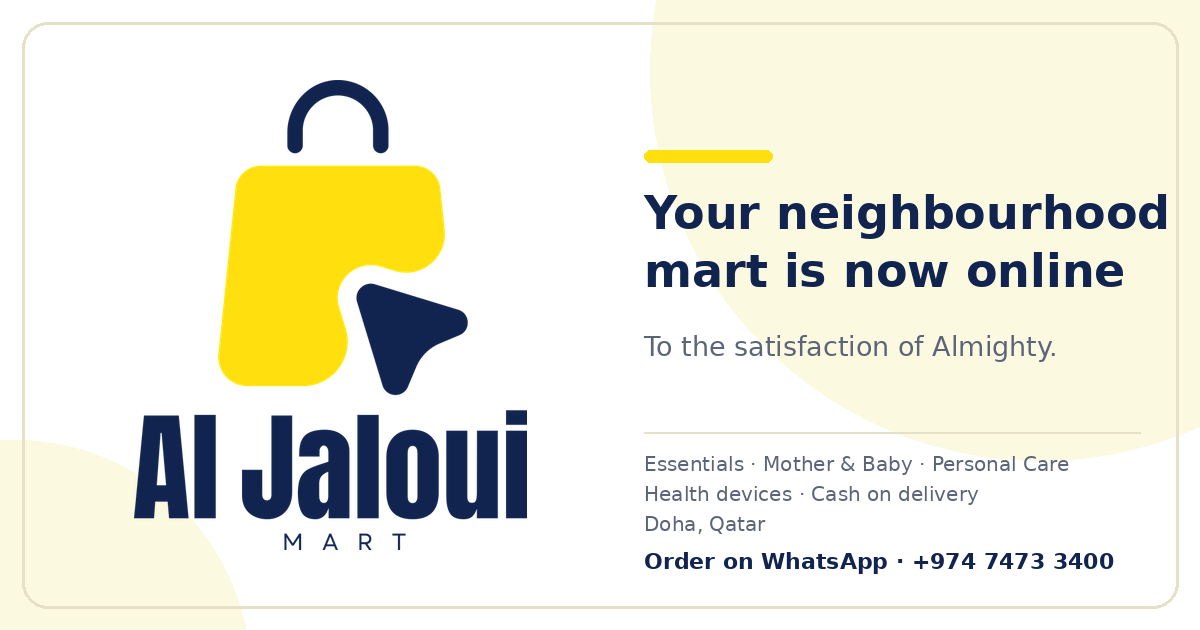
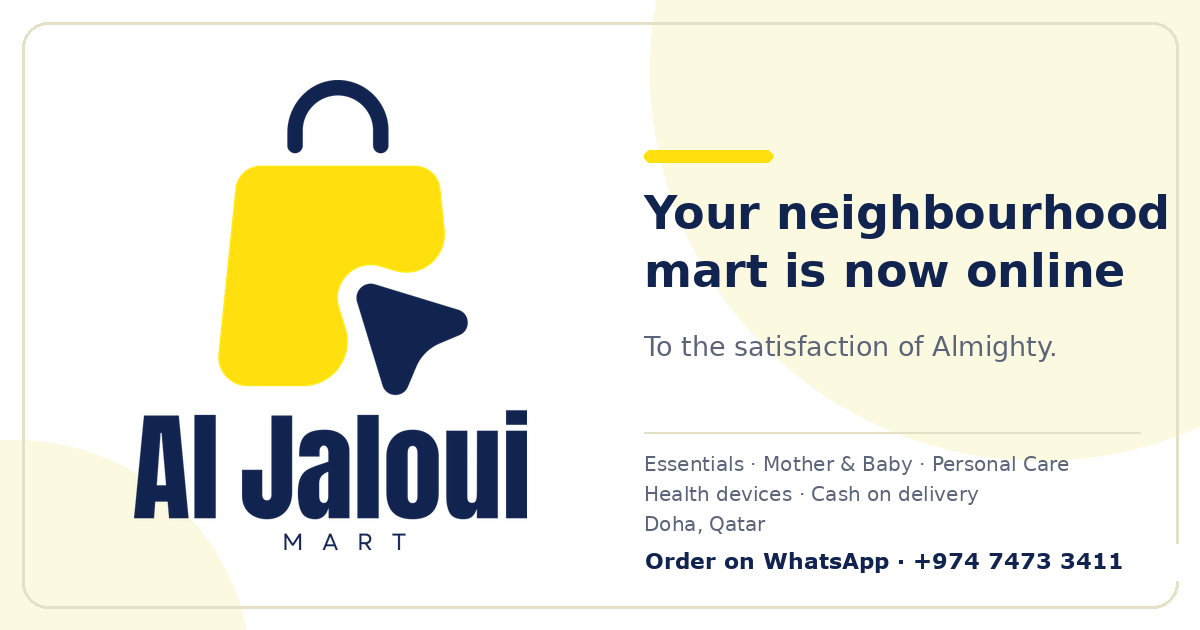
Change the shop phone number to +974 7473 3422
The old +974 7473 3400 is gone from the whole site: the footer, the
Call to Order button, the structured data Google reads, and the seven
product pages.

The share image's "Order on WhatsApp" line was still showing the old
number too. It now reads +974 7473 3411, the number that is actually
on WhatsApp, rather than the phone number. make_og.py reads that from
index.html now so the two cannot drift apart again.

Changed region(s): [[0.5242, 0.8746, 0.9558, 0.9048]]

diff --git a/index.html b/index.html
@@ -63,7 +63,7 @@
   "image": "https://aljaloui.com/og-image.png",
   "logo": "https://aljaloui.com/assets/brand/logo-stacked.png",
   "description": "Al Jaloui Mart is a neighbourhood store in Doha, Qatar, delivering Quran speakers, bukhoor burners, health and wellness products, car care tools, toys and kids' art sets.",
-  "telephone": "+97474733400",
+  "telephone": "+97474733422",
   "email": "aljalouimedia@gmail.com",
   "priceRange": "QAR",
   "currenciesAccepted": "QAR",
@@ -1759,9 +1759,9 @@
               rel="noopener"><svg aria-hidden="true">
                 <use href="#icon-pin" />
               </svg><span data-i18n="footer_addr">Doha, Qatar</span></a>
-            <a class="foot-line" data-contact="phone" href="tel:+97474733400"><svg aria-hidden="true">
+            <a class="foot-line" data-contact="phone" href="tel:+97474733422"><svg aria-hidden="true">
                 <use href="#icon-phone" />
-              </svg><bdi dir="ltr" data-contact-text="phone">+974 7473 3400</bdi></a>
+              </svg><bdi dir="ltr" data-contact-text="phone">+974 7473 3422</bdi></a>
             <a class="foot-line" data-contact="phone2" href="tel:+97474733411"><svg aria-hidden="true">
                 <use href="#icon-phone" />
               </svg><bdi dir="ltr" data-contact-text="phone2">+974 7473 3411</bdi></a>
@@ -1844,7 +1844,7 @@
     ];
     /* ============ EDIT YOUR CONTACT INFO HERE ============ */
     const CONTACT = {
-      phone: '+97474733400',        // first phone number (also used for 'Call to Order')
+      phone: '+97474733422',        // first phone number (also used for 'Call to Order')
       phone2: '+97474733411',       // second phone number
       whatsapp: '97474733411',      // WhatsApp number, digits only, with country code
       email: 'aljalouimedia@gmail.com',

diff --git a/p/concept-racing-gear-car.html b/p/concept-racing-gear-car.html
@@ -187,7 +187,7 @@ opacity:0;pointer-events:none;transition:opacity .22s,transform .22s;z-index:40}
     <div class="wrap">
       <span>Al Jaloui Mart <span aria-hidden="true">·</span> <span data-t="doha">Doha, Qatar</span></span>
       <a href="https://wa.me/97474733411" target="_blank" rel="noopener"><bdi dir="ltr">+974 7473 3411</bdi></a>
-      <a href="tel:+97474733400"><bdi dir="ltr">+974 7473 3400</bdi></a>
+      <a href="tel:+97474733422"><bdi dir="ltr">+974 7473 3422</bdi></a>
       <a href="mailto:aljalouimedia@gmail.com">aljalouimedia@gmail.com</a>
     </div>
   </footer>

diff --git a/p/cordless-polishing-machine.html b/p/cordless-polishing-machine.html
@@ -187,7 +187,7 @@ opacity:0;pointer-events:none;transition:opacity .22s,transform .22s;z-index:40}
     <div class="wrap">
       <span>Al Jaloui Mart <span aria-hidden="true">·</span> <span data-t="doha">Doha, Qatar</span></span>
       <a href="https://wa.me/97474733411" target="_blank" rel="noopener"><bdi dir="ltr">+974 7473 3411</bdi></a>
-      <a href="tel:+97474733400"><bdi dir="ltr">+974 7473 3400</bdi></a>
+      <a href="tel:+97474733422"><bdi dir="ltr">+974 7473 3422</bdi></a>
       <a href="mailto:aljalouimedia@gmail.com">aljalouimedia@gmail.com</a>
     </div>
   </footer>

diff --git a/p/mini-portable-incense-burner.html b/p/mini-portable-incense-burner.html
@@ -187,7 +187,7 @@ opacity:0;pointer-events:none;transition:opacity .22s,transform .22s;z-index:40}
     <div class="wrap">
       <span>Al Jaloui Mart <span aria-hidden="true">·</span> <span data-t="doha">Doha, Qatar</span></span>
       <a href="https://wa.me/97474733411" target="_blank" rel="noopener"><bdi dir="ltr">+974 7473 3411</bdi></a>
-      <a href="tel:+97474733400"><bdi dir="ltr">+974 7473 3400</bdi></a>
+      <a href="tel:+97474733422"><bdi dir="ltr">+974 7473 3422</bdi></a>
       <a href="mailto:aljalouimedia@gmail.com">aljalouimedia@gmail.com</a>
     </div>
   </footer>

diff --git a/p/smart-warm-palace-belt.html b/p/smart-warm-palace-belt.html
@@ -187,7 +187,7 @@ opacity:0;pointer-events:none;transition:opacity .22s,transform .22s;z-index:40}
     <div class="wrap">
       <span>Al Jaloui Mart <span aria-hidden="true">·</span> <span data-t="doha">Doha, Qatar</span></span>
       <a href="https://wa.me/97474733411" target="_blank" rel="noopener"><bdi dir="ltr">+974 7473 3411</bdi></a>
-      <a href="tel:+97474733400"><bdi dir="ltr">+974 7473 3400</bdi></a>
+      <a href="tel:+97474733422"><bdi dir="ltr">+974 7473 3422</bdi></a>
       <a href="mailto:aljalouimedia@gmail.com">aljalouimedia@gmail.com</a>
     </div>
   </footer>

diff --git a/p/sq858-quran-speaker.html b/p/sq858-quran-speaker.html
@@ -187,7 +187,7 @@ opacity:0;pointer-events:none;transition:opacity .22s,transform .22s;z-index:40}
     <div class="wrap">
       <span>Al Jaloui Mart <span aria-hidden="true">·</span> <span data-t="doha">Doha, Qatar</span></span>
       <a href="https://wa.me/97474733411" target="_blank" rel="noopener"><bdi dir="ltr">+974 7473 3411</bdi></a>
-      <a href="tel:+97474733400"><bdi dir="ltr">+974 7473 3400</bdi></a>
+      <a href="tel:+97474733422"><bdi dir="ltr">+974 7473 3422</bdi></a>
       <a href="mailto:aljalouimedia@gmail.com">aljalouimedia@gmail.com</a>
     </div>
   </footer>

diff --git a/p/super-mega-art-set-168pcs.html b/p/super-mega-art-set-168pcs.html
@@ -187,7 +187,7 @@ opacity:0;pointer-events:none;transition:opacity .22s,transform .22s;z-index:40}
     <div class="wrap">
       <span>Al Jaloui Mart <span aria-hidden="true">·</span> <span data-t="doha">Doha, Qatar</span></span>
       <a href="https://wa.me/97474733411" target="_blank" rel="noopener"><bdi dir="ltr">+974 7473 3411</bdi></a>
-      <a href="tel:+97474733400"><bdi dir="ltr">+974 7473 3400</bdi></a>
+      <a href="tel:+97474733422"><bdi dir="ltr">+974 7473 3422</bdi></a>
       <a href="mailto:aljalouimedia@gmail.com">aljalouimedia@gmail.com</a>
     </div>
   </footer>

diff --git a/p/touch-lamp-quran-speaker-sq112.html b/p/touch-lamp-quran-speaker-sq112.html
@@ -187,7 +187,7 @@ opacity:0;pointer-events:none;transition:opacity .22s,transform .22s;z-index:40}
     <div class="wrap">
       <span>Al Jaloui Mart <span aria-hidden="true">·</span> <span data-t="doha">Doha, Qatar</span></span>
       <a href="https://wa.me/97474733411" target="_blank" rel="noopener"><bdi dir="ltr">+974 7473 3411</bdi></a>
-      <a href="tel:+97474733400"><bdi dir="ltr">+974 7473 3400</bdi></a>
+      <a href="tel:+97474733422"><bdi dir="ltr">+974 7473 3422</bdi></a>
       <a href="mailto:aljalouimedia@gmail.com">aljalouimedia@gmail.com</a>
     </div>
   </footer>

diff --git a/tools/make_og.py b/tools/make_og.py
@@ -3,8 +3,15 @@
 
 Run from the project folder:  python3 tools/make_og.py
 Then commit the updated og-image.png.
+
+HEADS UP: the committed og-image.png is not a plain output of this script.
+Its tagline reads "To the satisfaction of Almighty." while the script below
+draws "Shop Your Dream.", and the WhatsApp line was patched in place when
+the number changed. Running this script WILL overwrite both with whatever
+is written here, so look at the result before committing it.
 """
 import os
+import re
 from PIL import Image, ImageDraw, ImageFont
 
 ROOT = os.path.dirname(os.path.dirname(os.path.abspath(__file__)))
@@ -30,11 +37,24 @@ def find_font(names):
 FONT_B = find_font([
     "/usr/share/fonts/truetype/dejavu/DejaVuSans-Bold.ttf",
     "/usr/share/fonts/dejavu/DejaVuSans-Bold.ttf",
+    r"C:\Windows\Fonts\verdanab.ttf",
+    r"C:\Windows\Fonts\segoeuib.ttf",
 ])
 FONT_R = find_font([
     "/usr/share/fonts/truetype/dejavu/DejaVuSans.ttf",
     "/usr/share/fonts/dejavu/DejaVuSans.ttf",
+    r"C:\Windows\Fonts\verdana.ttf",
+    r"C:\Windows\Fonts\segoeui.ttf",
 ])
+
+
+def whatsapp_number():
+    """Read the WhatsApp number from index.html so this line cannot drift."""
+    src = open(os.path.join(ROOT, "index.html"), encoding="utf-8").read()
+    d = re.search(r"whatsapp: '(\d+)'", src).group(1)
+    if d.startswith("974") and len(d) == 11:
+        return "+974 %s %s" % (d[3:7], d[7:])
+    return "+" + d
 
 img = Image.new("RGB", (W, H), WHITE)
 d = ImageDraw.Draw(img)
@@ -84,7 +104,7 @@ for text in lines:
     d.text((x0 + 4, y), text, font=f, fill=INK_SOF)
     y += 30
 
-order_line = "Order on WhatsApp \u00b7 +974 7473 3400"
+order_line = "Order on WhatsApp \u00b7 " + whatsapp_number()
 d.text((x0 + 4, y + 6), order_line, font=fit(order_line, FONT_B, 22, 500), fill=NAVY)
 
 out = os.path.join(ROOT, "og-image.png")

diff --git a/HANDOVER.md b/HANDOVER.md
@@ -6,7 +6,7 @@ send it to your WhatsApp, or fill in delivery details for **Cash on Delivery** (
 also arrives as a WhatsApp message).
 
 > **Orders are not stored anywhere except in your WhatsApp chat.** Keep the shop phone
-> (+974 7473 3400) logged in to WhatsApp and check it regularly.
+> (+974 7473 3411) logged in to WhatsApp and check it regularly.
 
 ---
 
@@ -66,7 +66,7 @@ Edit the wording in `const I18N` (`hero_title_1`, `hero_title_2`, `hero_title_3`
 
 ### Change phone numbers, WhatsApp, email, Facebook
 Search `const CONTACT`. Change the values there — the footer, buttons and floating WhatsApp button all update from it.
-The WhatsApp number must be digits only with the country code (e.g. `97474733400`).
+The WhatsApp number must be digits only with the country code (e.g. `97474733411`).
 Also change the phone and email in the `<script type="application/ld+json">` block near the top (this is the data Google shows about your shop).
 
 ### Change wording (English / Arabic)
